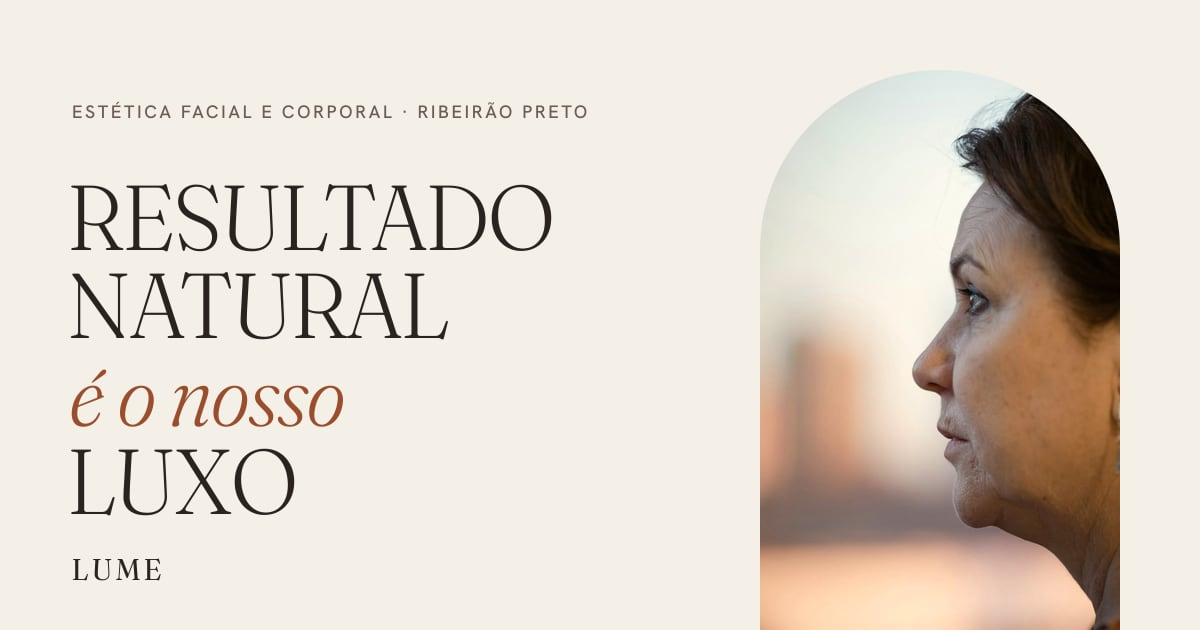
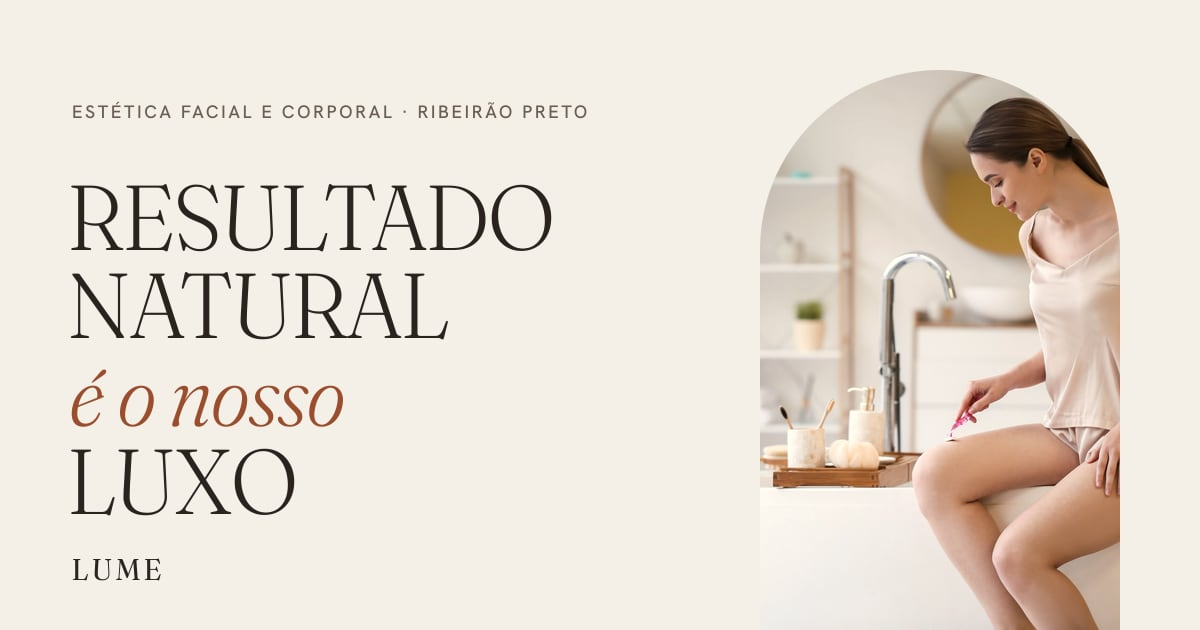
Hero: nova foto (StockSnap, CC0) escolhida pelo usuário; créditos, OG e enquadramento
- Foto 'woman bathtub' de Authentic Stock (StockSnap, CC0), mesmo tratamento das demais
- Enquadramento próprio no celular para o rosto cair no arco
- OG regenerada; CREDITOS.md e scripts de fotos atualizados
- Ponte temporária removida

Claude-Session: https://claude.ai/code/session_018m2YrEtHM7KknmMA1nkpbr

Changed region(s): [[0.6167, 0.0905, 0.9558, 1.0]]

diff --git a/CREDITOS.md b/CREDITOS.md
@@ -1,12 +1,12 @@
 # Créditos das fotos
 
-Todas as fotos são do [Unsplash](https://unsplash.com/?utm_source=lume&utm_medium=referral), sob a [Licença Unsplash](https://unsplash.com/license) (uso gratuito, inclusive comercial, sem exigência de atribuição; creditamos mesmo assim). Todas receberam o mesmo tratamento (leve aquecimento, saturação -6%) para parecer um ensaio só.
+A foto do hero é do [StockSnap](https://stocksnap.io), em domínio público ([CC0](https://creativecommons.org/publicdomain/zero/1.0/)). As demais são do [Unsplash](https://unsplash.com/?utm_source=lume&utm_medium=referral), sob a [Licença Unsplash](https://unsplash.com/license). As duas licenças permitem uso gratuito, inclusive comercial, sem exigência de atribuição; creditamos mesmo assim. Todas receberam o mesmo tratamento (leve aquecimento, saturação -6%) para parecer um ensaio só.
 
 As pessoas fotografadas não têm relação com a Lume. Nomes da equipe e depoimentos são fictícios.
 
 | Uso | Arquivo | Autor | Foto |
 | --- | --- | --- | --- |
-| Hero (janela em arco que abre) | `src/assets/hero.jpg` | [Vinicius das Neves](https://unsplash.com/@viniciusneves?utm_source=lume&utm_medium=referral) | [I54K0EzVhKw](https://unsplash.com/photos/a-close-up-of-a-person-with-a-city-in-the-background-I54K0EzVhKw?utm_source=lume&utm_medium=referral) |
+| Hero (janela em arco que abre) | `src/assets/hero.jpg` | [Authentic Stock](https://stocksnap.io/author/authentic) (StockSnap, CC0) | [CUGFVFAI24](https://stocksnap.io/photo/woman-bathtub-CUGFVFAI24) |
 | Ritual de Luz | `src/assets/ritual.jpg` | [Rosalie Gdy](https://unsplash.com/@rosaliegdy?utm_source=lume&utm_medium=referral) | [c-cC9DnjpqA](https://unsplash.com/photos/hands-massaging-temples-during-facial-massage-c-cC9DnjpqA?utm_source=lume&utm_medium=referral) |
 | A clínica | `src/assets/ambiente.jpg` | [Caroline Badran](https://unsplash.com/@___atmos?utm_source=lume&utm_medium=referral) | [Os53eXcWy2I](https://unsplash.com/photos/a-neutral-toned-sofa-with-a-textured-vase-Os53eXcWy2I?utm_source=lume&utm_medium=referral) |
 | Limpeza de Pele Profunda | `src/assets/tratamento-limpeza.jpg` | [kimia kazemi](https://unsplash.com/@kimick?utm_source=lume&utm_medium=referral) | [J6Hg_YH2tFk](https://unsplash.com/photos/womans-face-with-cleansing-foam-during-facial-treatment-J6Hg_YH2tFk?utm_source=lume&utm_medium=referral) |
